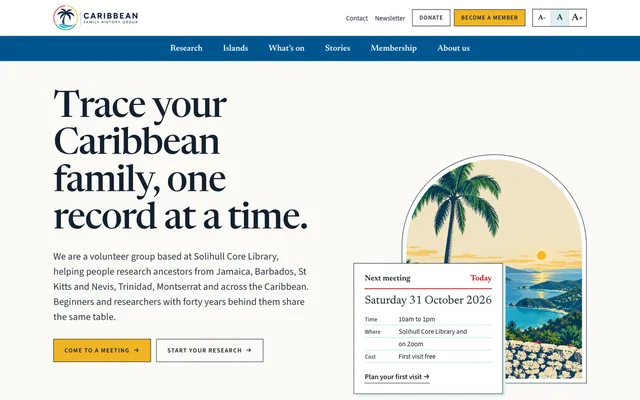
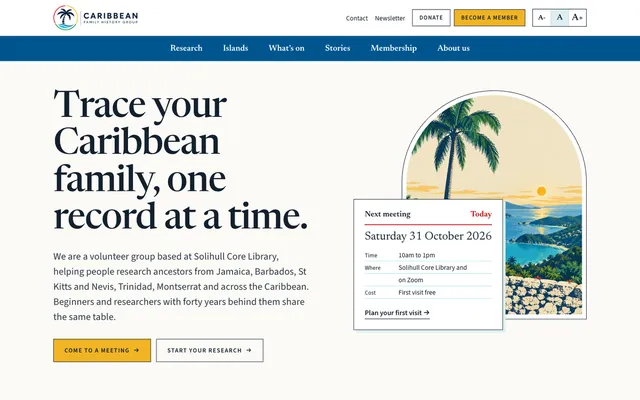
Option C: align the hero illustration with the top of the heading
On desktop the hero grid now aligns to the top, so the arched print starts
level with "Trace your" instead of sinking to the bottom of the column.
Landing thumbnail refreshed to match.

Changed region(s): [[0.5312, 0.21, 0.9375, 0.99], [0.5625, 0.87, 0.5938, 0.9]]

diff --git a/preview-c/assets/css/ui-pass.css b/preview-c/assets/css/ui-pass.css
@@ -221,6 +221,18 @@ p, li, dd, figcaption {
 	transform: none;
 }
 
+/* Hero: the arched illustration starts level with the top of the heading,
+   rather than sinking to the bottom of the column. */
+@media (min-width: 60em) {
+	.cfhg-c-hero__grid {
+		align-items: start;
+	}
+
+	.cfhg-c-hero__media {
+		margin-top: 0.12em;
+	}
+}
+
 /* 4. Sticky navigation bar (desktop, where the bar is shown) ---------------- */
 @media (min-width: 64em) {
 	.cfhg-c-header {
